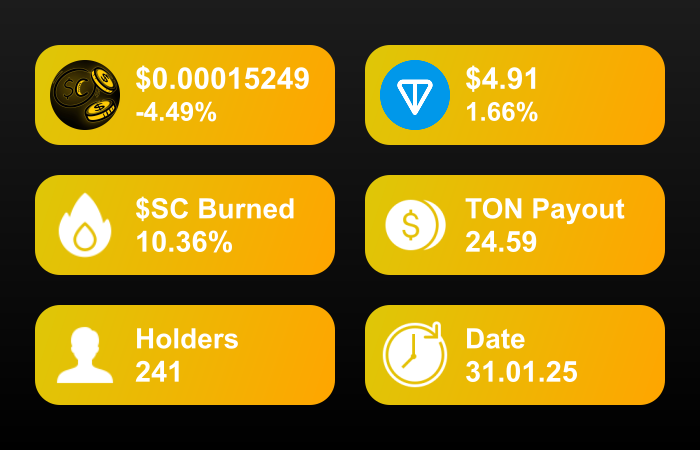
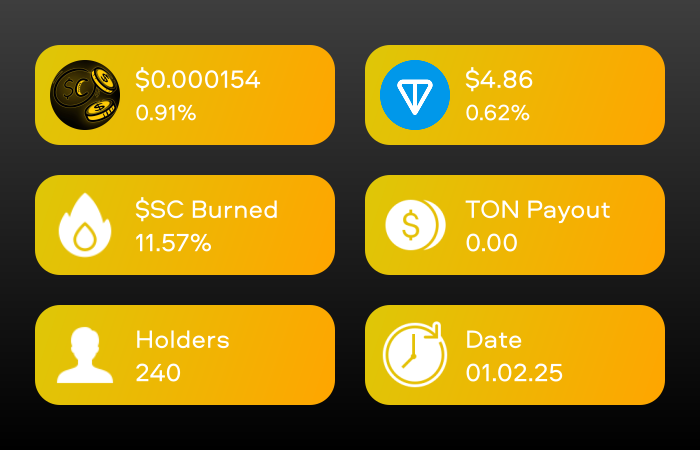
add

diff --git a/src/generateImage/generate.js b/src/generateImage/generate.js
@@ -3,8 +3,12 @@ import fs from 'fs';
 import path from 'path';
 import { drawRoundedRect, drawImageIfExists } from './utils/drawUtils.js';
 import { WIDTH, HEIGHT, BACKGROUND_COLOR, BUTTON_COLOR, TEXT_COLOR, BUTTON_WIDTH, BUTTON_HEIGHT, BUTTON_RADIUS, BUTTON_GAP, COLUMN_GAP, BUTTONS_PER_COLUMN, IMAGE_WIDTH, IMAGE_HEIGHT, IMAGE_MARGIN, buttons } from './utils/data.js';
+import { fileURLToPath } from 'url';
 
-registerFont(path.resolve('Fonts', 'AEROPORT.OTF'), { family: 'AEROPORT' });
+const __filename = fileURLToPath(import.meta.url);
+const __dirname = path.dirname(__filename);
+
+registerFont(path.resolve(__dirname, '../Fonts/AEROPORT.OTF'), { family: 'AEROPORT' });
 
 export async function generateImage() {
     const canvas = createCanvas(WIDTH, HEIGHT);
@@ -50,7 +54,7 @@ export async function generateImage() {
         ctx.fillStyle = TEXT_COLOR;
 
         if (isPrice) {
-            ctx.font = 'bold 26px "AEROPORT"';
+            ctx.font = 'bolder 26px "AEROPORT"';
             ctx.fillText(value, textX, y + BUTTON_HEIGHT / 3);
             if (extra) {
                 ctx.font = 'bold 23px "AEROPORT"';

diff --git a/src/generateImage/utils/data.js b/src/generateImage/utils/data.js
@@ -27,7 +27,7 @@ const dateImage = path.join(__dirname, '../images/date.png');
 export const WIDTH = 700;
 export const HEIGHT = 450;
 
-export const BACKGROUND_COLOR = ['#1C1C1C', '#000000']; // Градиент темно-серый → черный
+export const BACKGROUND_COLOR = ['#3E3E3E', '#000000']; // Градиент темно-серый → черный
 export const BUTTON_COLOR = ['#DEC707', '#FFA500']; // Градиент желтый → оранжевый
 export const TEXT_COLOR = '#FFFFFF';
 
